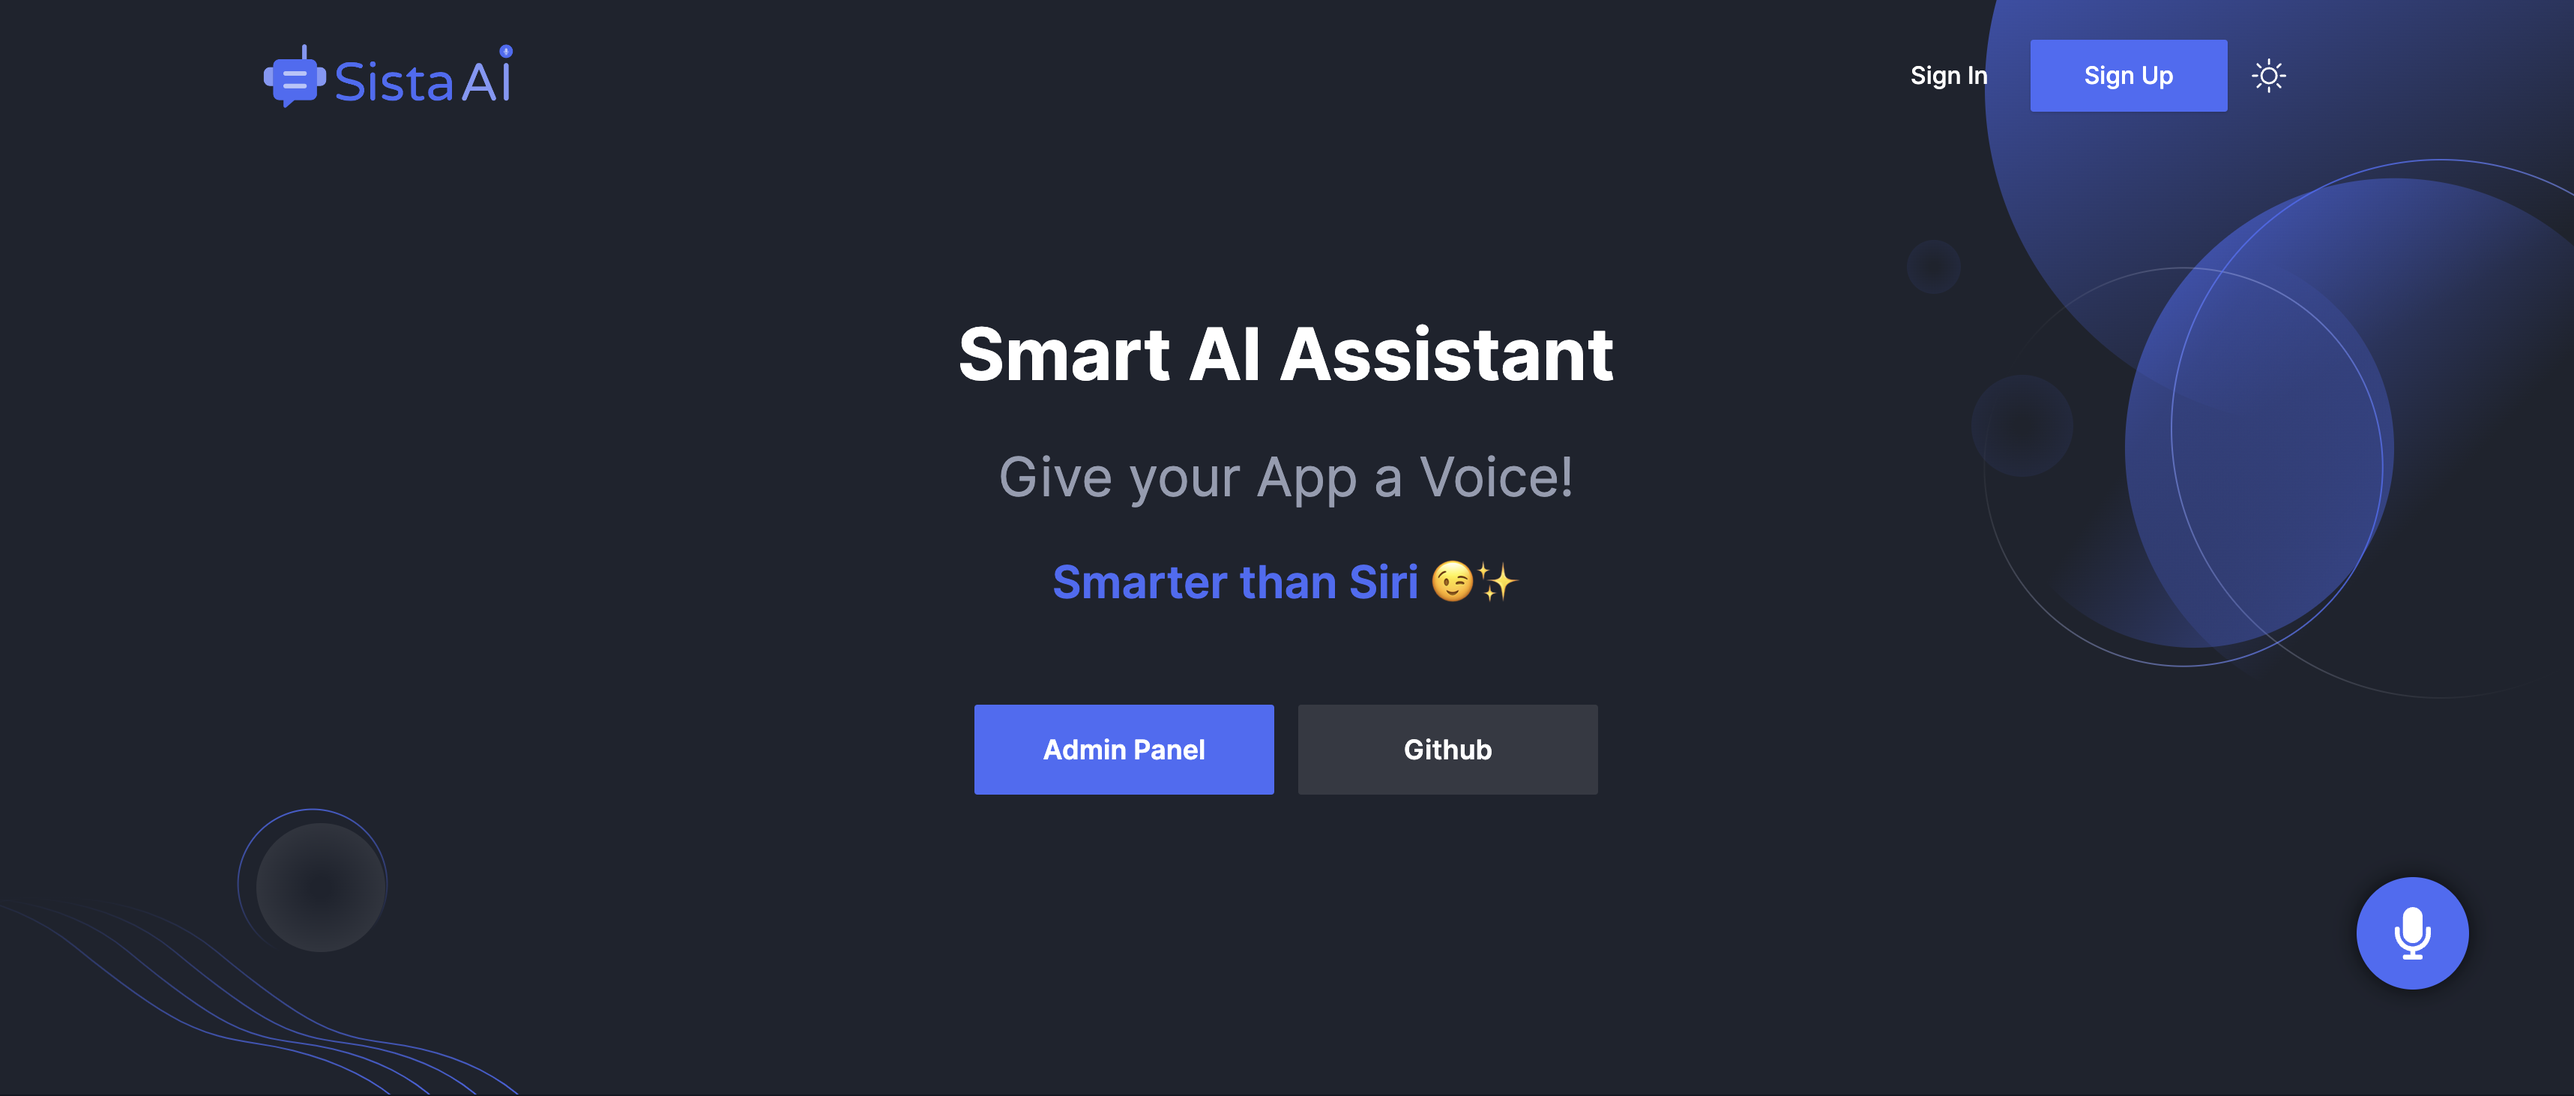
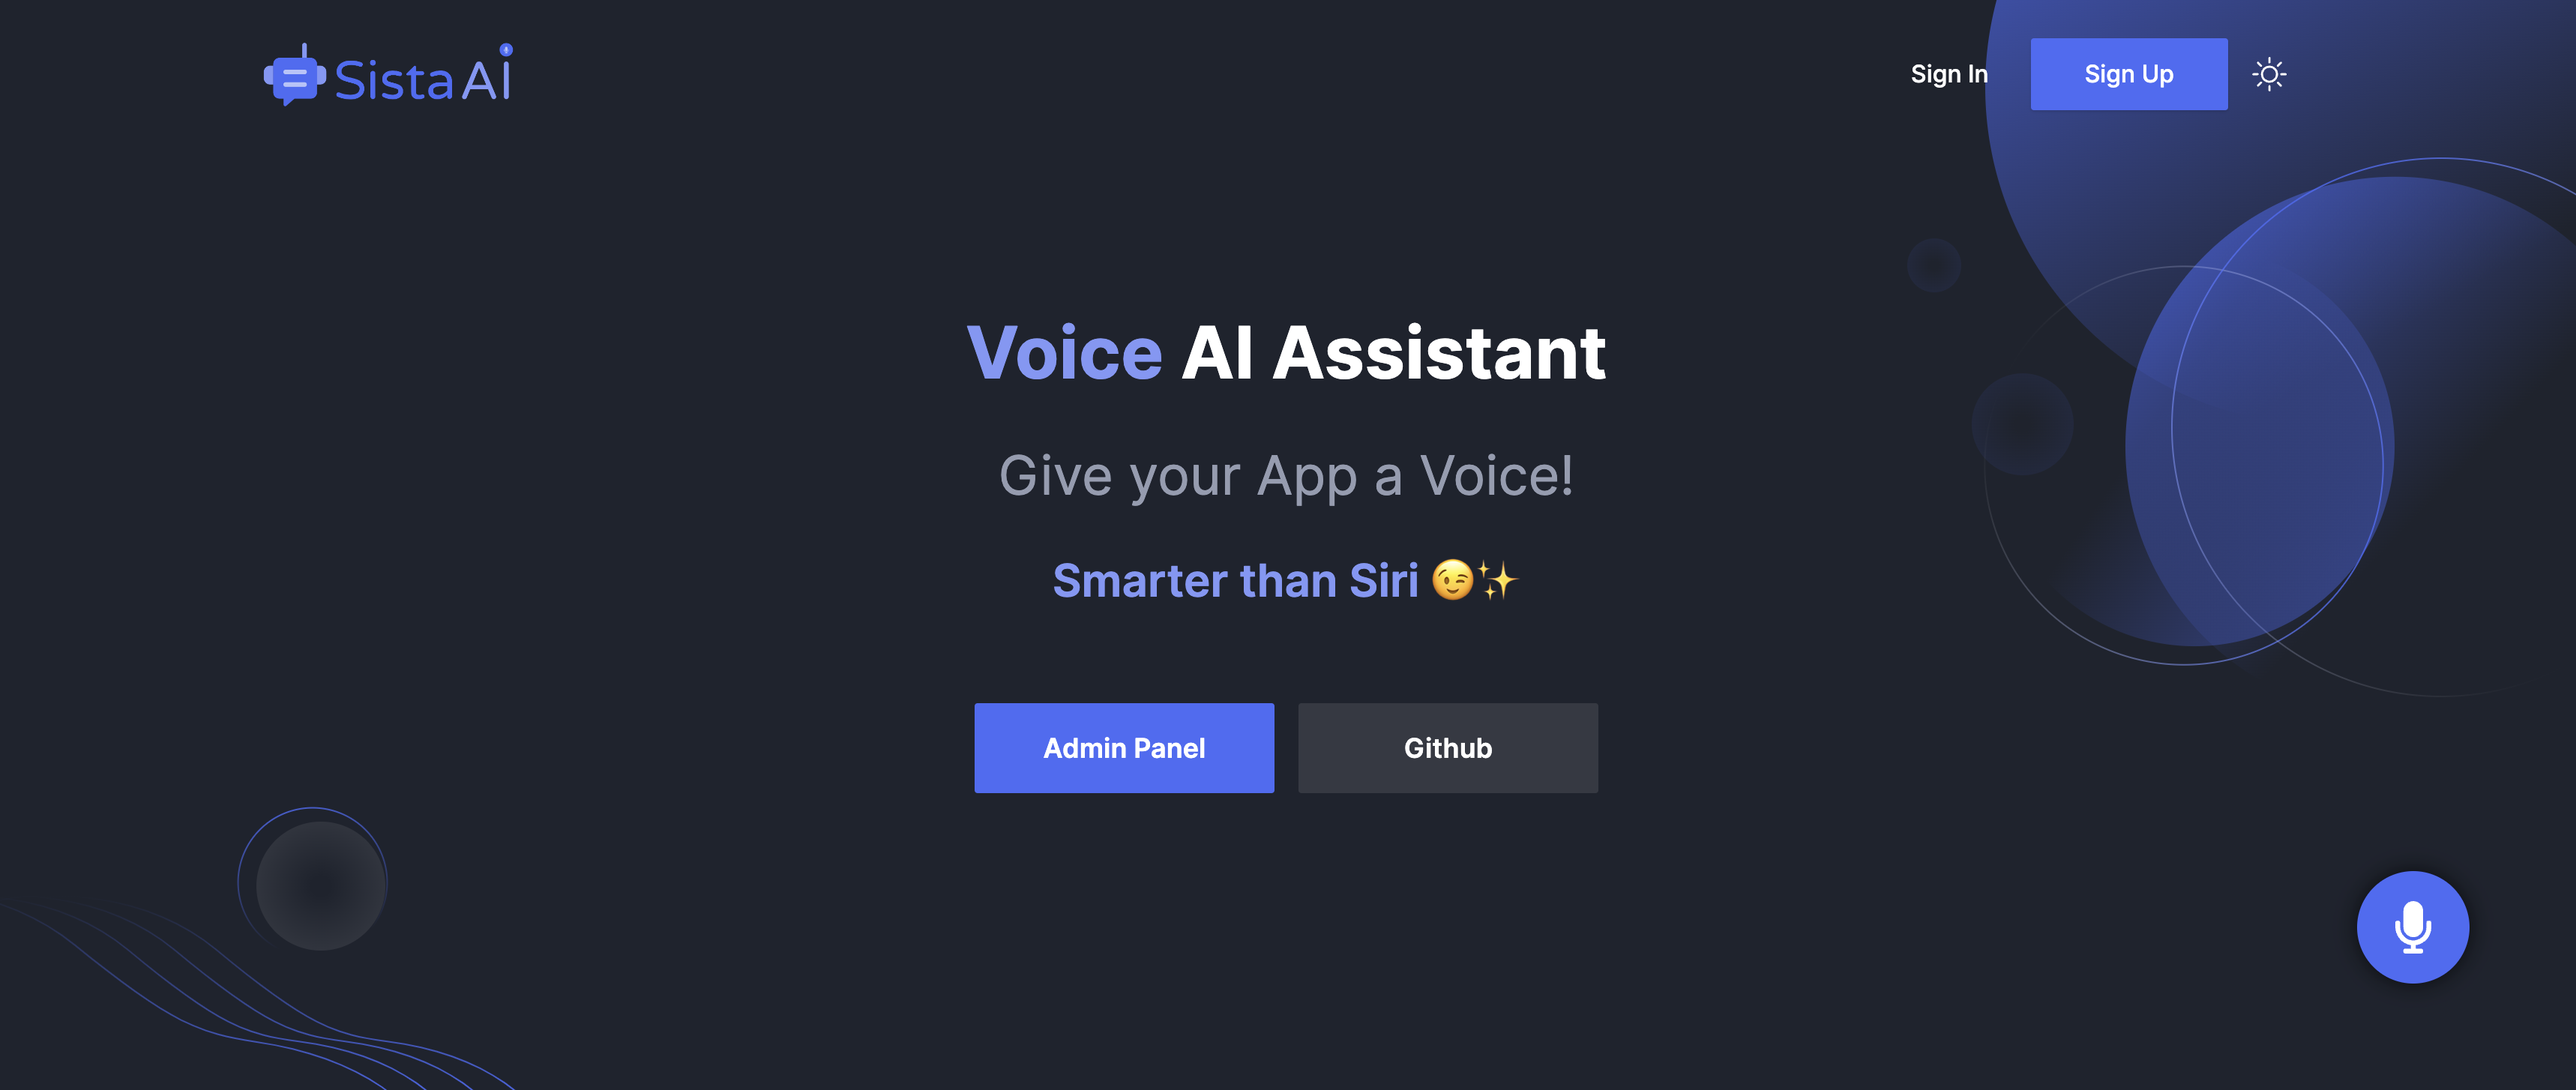
readme update

diff --git a/README.md b/README.md
@@ -1,8 +1,8 @@
-# Smart AI Assistant (React JS)
+# Voice AI Assistant (React JS)
 
-Turn your React App into an AI-powered, Voice-controlled interface **in less than 10 minutes**!
+Turn your App smart with a conversational AI assistant and interactive voice UI **in less than 10 minutes**!
 
-__No Code Changes or Intent Definitions!__ *Just add our magic button `<AiAssistantButton />`.*
+__No Code Changes! No Intent Definitions!__ *Just add our magic button `<AiAssistantButton />`.*
 
 
 
@@ -327,8 +327,10 @@ Change AI assistant's voice via the [Admin Panel](https://admin.sista.ai/applica
   <img src="./assets/sista-icon.png" alt="Sista Logo" width="100"/>
 </a>
 
-Unlock the Future with our advacned **Voice UI Assistant**: Embrace top-tier components:
-- Voice UI Controller
+Unlock the Future with our advacned **Voice AI Assistant**: Embrace top-tier components:
+- Conversational AI Agents
+- Interactive Voice UI
+- Intelligent AI interface
 - Natural Language Understanding Engine
 - Text-to-Executable Translator
 - Audio-to-Text / Text-to-Audio Conversion
